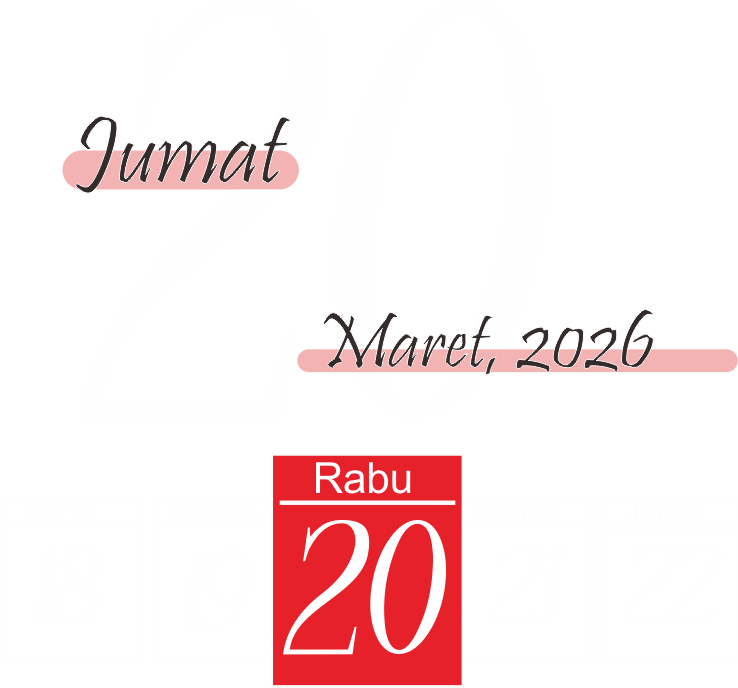
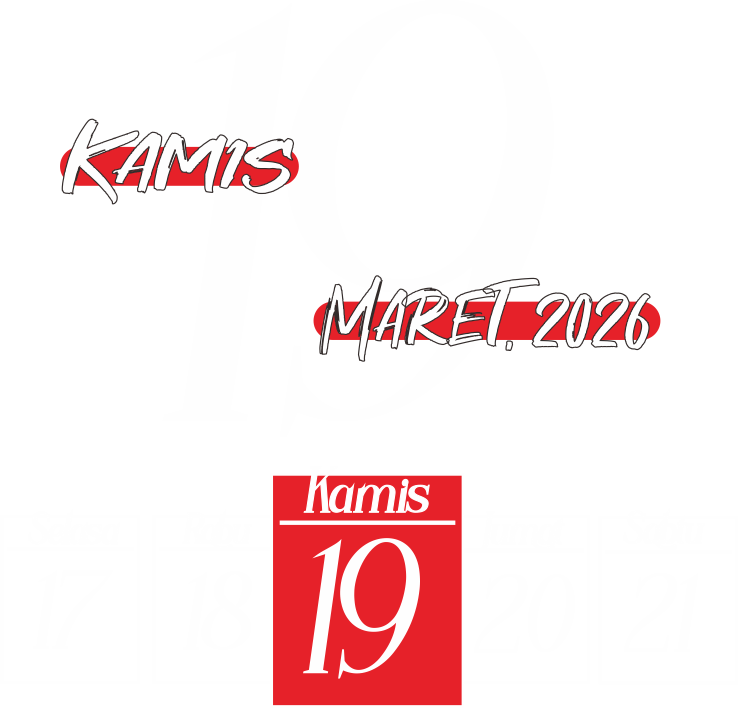
edited

Changed region(s): [[0.4051, 0.3968, 1.0, 0.5494], [0.374, 0.641, 0.6233, 0.9767], [0.0623, 0.1526, 0.4051, 0.3052]]

diff --git a/index.html b/index.html
@@ -24,14 +24,13 @@
     <link rel="preconnect" href="https://fonts.gstatic.com" crossorigin>
     <link href="https://fonts.googleapis.com/css2?family=Alex+Brush&family=Atma:wght@300;400;500;600;700&family=Birthstone&display=swap" rel="stylesheet">
 
-
-
     <!-- Custom CSS -->
     <link rel="stylesheet" href="assets/css/style.css">
     <link rel="stylesheet" href="assets/css/undangan.css">
     <link rel="stylesheet" href="assets/css/countdown.css">
     <link rel="stylesheet" href="assets/css/lightbox.css">
     <link rel="stylesheet" href="assets/css/loader.css">
+    <link rel="stylesheet" href="assets/css/animasi.css">
 </head>
 <body>
     <div id="loading">
@@ -74,11 +73,11 @@
         
         <section id="linniel_1">
                 <div class="linniel_1 d-flex flex-column justify-content-between align-items-center vh-100">
-                    <div class="text-center pt-5">
+                    <div class="text-center pt-5 zoom-in">
                         <img src="assets/dec/nama_putih.png" alt="nama" class="nama_img">
                     </div>
                     
-                <p class="kutipan text-center py-5 px-3" >
+                <p class="kutipan text-center py-5 px-3 reveal delay-2">
                     "Aku Mengucap Syukur Kepada Allahku
                     Setiap Kali Aku Mengingat Kamu"
                     <br><span class="kutip">( FIlipi 1 : 3 - 4 )</span>
@@ -87,7 +86,7 @@
         </section>
         <section class="linniel_2 text-light">
             <hr class="hr_custom">
-            <p class="text-center px-3 py-5" >
+            <p class="undangan text-center px-3 py-5 reveal">
                     Dengan segala kerendahan hati,
                     dan dengan ungkapan Syukur atas karunia Tuhan, kami mengundang
                     Bapak/Ibu/Saudara/i 
@@ -96,6 +95,7 @@
                 <br>
                     <div class="grid-test justify-content-center align-items-center text-center d-flex">
                         <div class="pria_bio">
+                            <p class="n_lengkap text-center zoom-in">Mempelai Pria</p>
                             <div class="parent justify-content-center align-items-center text-center d-flex px-3">
                                 <div class="div4">
                                     <div class="m_pria">
@@ -115,9 +115,12 @@
                         </div>
                     </div>
                     <br>
-                    <h1 class="dgn text-center py-3 mb-5">&</h1>
+                    <h1 class="dgn text-center py-3 mb-5">
+                        <img src="assets/dec/ringgs.png" alt="Wedding_Ring" class="w-ring">
+                    </h1>
                     <div class="grid-test justify-content-center align-items-center text-center d-flex">
                         <div class="wanita_bio">
+                            <p class="n_lengkap text-center">Mempelai Wanita</p>
                             <div class="parent justify-content-center align-items-center text-center d-flex px-3">
                                 <div class="div4 text-end">
                                     <p class="nama_m">Prischa</p>
@@ -146,11 +149,10 @@
                    <p class="up text-light fs-5 fw-bold">PEMINANGAN</p>
                             <div class="Pemberkatan text-light text-center mt-4">
                                 <p class="j_peminangan">Rabu, 18 Maret 2026</p>
-                                <p>Rabu, 18 Maret 2026</p>
-                                <p>Pukul 16 . 00 WITA - Selesai</p>
+                                <p class="pkl">Pukul 16 . 00 WITA - Selesai</p>
                                 <p>Rumah Bpk . Markus Ratu Kore (Alm)</p>
                                 <p class="lksi">Jln. Benteng, Kelurahan Airnona</p>
-                                <h2><a href="" class="btn" target="_blank" rel="noopener noreferrer">Lihat Lokasi</a></h2>
+                                <h2><a href="https://maps.app.goo.gl/9Ep5Mthqo4PWzgje8" class="btn" target="_blank" rel="noopener noreferrer">Lihat Lokasi</a></h2>
                             </div>
                         <hr class="hr_custom">
                     <p class="up text-center fs-5 fw-bold">PEMBERKATAN & RESEPSI</p>
@@ -163,19 +165,19 @@
                             <div class="div6 text-center">
                                 <p class="up text-center fs-5 fw-bold">PEMBERKATAN</p>
                                 <hr class="hr_custom">
-                                <p>Jumat, 20 Maret 2026</p>
-                                <p>Pukul : 13 . 00 WITA</p>
+                                <p class="j_peminangan">Kamis, 19 Maret 2026</p>
+                                <p class="pkl">Pukul : 14 . 00 WITA</p>
                                 <p>Gereja GMIT Koinonia Kupang <br> Jln. Jendral Sudirman <br>Kelurahan Nunleu</p>
-                                <h2><a href="" class="btn" target="_blank" rel="noopener noreferrer">Lihat Lokasi</a></h2>
+                                <h2><a href="https://maps.app.goo.gl/t3HzVpp1UKVmQg5R9" class="btn" target="_blank" rel="noopener noreferrer">Lihat Lokasi</a></h2>
                                 <hr class="hr_custom">
                             </div>
                             <div class="div6">
                                 <p class="up text-center fs-5 fw-bold">RESEPSI</p>
                                 <hr class="hr_custom">
-                                <p>Jumat, 20 Maret 2026</p>
-                                <p>Pukul : 18 . 00 WITA</p>
+                                <p class="j_peminangan">Kamis, 19 Maret 2026</p>
+                                <p class="pkl">Pukul : 18 . 00 WITA</p>
                                 <p>Grand Mutiara Ballroom, <br>Jln. Terusan Timor Raya <br>Kelurahan Pasir Panjang </p>
-                                <h2><a href="" class="btn" target="_blank" rel="noopener noreferrer">Lihat Lokasi</a></h2>
+                                <h2><a href="https://maps.app.goo.gl/9Ep5Mthqo4PWzgje8" class="btn" target="_blank" rel="noopener noreferrer">Lihat Lokasi</a></h2>
                             </div>
                         </div>
                         </div>
@@ -281,6 +283,7 @@
     <source src="assets/music/musicc.mp3" type="audio/mp3">
 </audio>
 
+
 <script>
     
 document.addEventListener("DOMContentLoaded", function () {
@@ -324,6 +327,8 @@ document.addEventListener("DOMContentLoaded", function () {
 
 </script>
 
+
+
 <!-- Bootstrap JS -->
 <script src="https://cdn.jsdelivr.net/npm/bootstrap@5.3.2/dist/js/bootstrap.bundle.min.js"></script>
 
@@ -332,6 +337,7 @@ document.addEventListener("DOMContentLoaded", function () {
 <script src="assets/js/countdown.js"></script>
 <script src="assets/js/lightbox.js"></script>
 <script src="assets/js/loader.js"></script>
+<script src="assets/js/animasi.js"></script>
 
 </body>
 </html>

diff --git a/assets/css/undangan.css b/assets/css/undangan.css
@@ -112,7 +112,7 @@
   font-style: normal;
 }
 .wrapper_2{
-    background-color: #d6d6d640;
+    background-color: #16161679;
     font-size: 12px;
     padding: 10px;
     padding-bottom: 50px;
@@ -122,7 +122,7 @@
     border-top-right-radius: 10px;
     border-bottom-left-radius: 10x;
     border-bottom-right-radius: 100px;
-    box-shadow: 0 2px 10px rgb(0, 0, 0);
+    box-shadow: 0 2px 10px rgba(255, 255, 255, 0.555);
     position: relative;
     z-index: 2;
 }
@@ -130,7 +130,6 @@
 .jadwal_1{
     width: 220px;
     padding-top: 20%;
-    filter: drop-shadow(2px 1px 4px rgb(255, 255, 255));
     opacity: 100;
     z-index: 100;
 }
@@ -141,8 +140,9 @@
 }
 .btn{
     box-shadow: 2px 2px 4px black;
-    background-color: rgba(0, 0, 0, 0.733);
-    color: white;
+    background-color: rgb(255, 255, 255);
+    color: blue;
+    box-shadow: 1px 2px 10px rgb(215, 255, 71);
 }
 .linniel_4{
     height: auto;

diff --git a/assets/css/animasi.css b/assets/css/animasi.css
@@ -1,0 +1,31 @@
+.reveal{
+opacity:0;
+transform:translateY(130px);
+transition:all 1s ease;
+}
+
+.reveal.show{
+opacity:1;
+transform:translateY(0);
+}
+
+.zoom-in{
+opacity:0;
+transform:scale(0.1);
+transition:all 1.2s cubic-bezier(0.22,1,0.36,1);
+}
+
+.zoom-in.show{
+    opacity: 1;
+    transform: scale(1);
+}
+
+delay-1{
+    transition-delay: 0.2s;
+}
+delay-1{
+    transition-delay: 0.6s;
+}
+delay-1{
+    transition-delay: 0.8s;
+}

diff --git a/assets/css/style.css b/assets/css/style.css
@@ -25,6 +25,13 @@ body {
     line-height:0.8;
 }
 
+.w-ring{
+    width: 90px;
+}
+.pkl{
+    font-size: 16px;
+}
+
 .posisi-btn{
     position: absolute;
     flex-direction: column;
@@ -61,7 +68,6 @@ body {
 .isi {
     position: relative;
     height: 100vh;
-    overflow: hidden;
 }
 
 /* Background */
@@ -112,5 +118,6 @@ body {
     overflow-y: auto;
     -webkit-overflow-scrolling: touch;
 }
+
 
 

diff --git a/assets/js/animasi.js b/assets/js/animasi.js
@@ -1,0 +1,17 @@
+const elements = document.querySelectorAll(".reveal, .zoom-in");
+const container = document.querySelector(".content-scroll");
+
+const observer = new IntersectionObserver(entries=>{
+entries.forEach(entry=>{
+if(entry.isIntersecting){
+entry.target.classList.add("show");
+}
+});
+},{
+root: container,
+threshold: 0.2
+});
+
+elements.forEach(el=>{
+observer.observe(el);
+});

diff --git a/assets/js/countdown.js b/assets/js/countdown.js
@@ -1,5 +1,5 @@
 // Atur hitungan mundur ke 15 November 2024 pukul 18:00 WITA (UTC+8)
-var target_date = new Date('March 20, 2026 18:00:00 GMT+8').getTime();
+var target_date = new Date('March 19, 2026 18:00:00 GMT+8').getTime();
 var days, hours, minutes, seconds; 
 
 var countdown = document.getElementById("tiles"); 

diff --git a/assets/css/countdown.css b/assets/css/countdown.css
@@ -30,7 +30,7 @@
   border-radius: 8px;
   border: solid 2px white;
   margin: 0 5px;
-  box-shadow: 0px 2px 4px #ffffff;
+  box-shadow: 1px 2px 10px rgb(215, 255, 71);
   text-align: center;
 }
 

diff --git a/assets/js/script.js b/assets/js/script.js
@@ -60,3 +60,4 @@ document.addEventListener("DOMContentLoaded", function () {
     }, 3000);
 
 });
+
